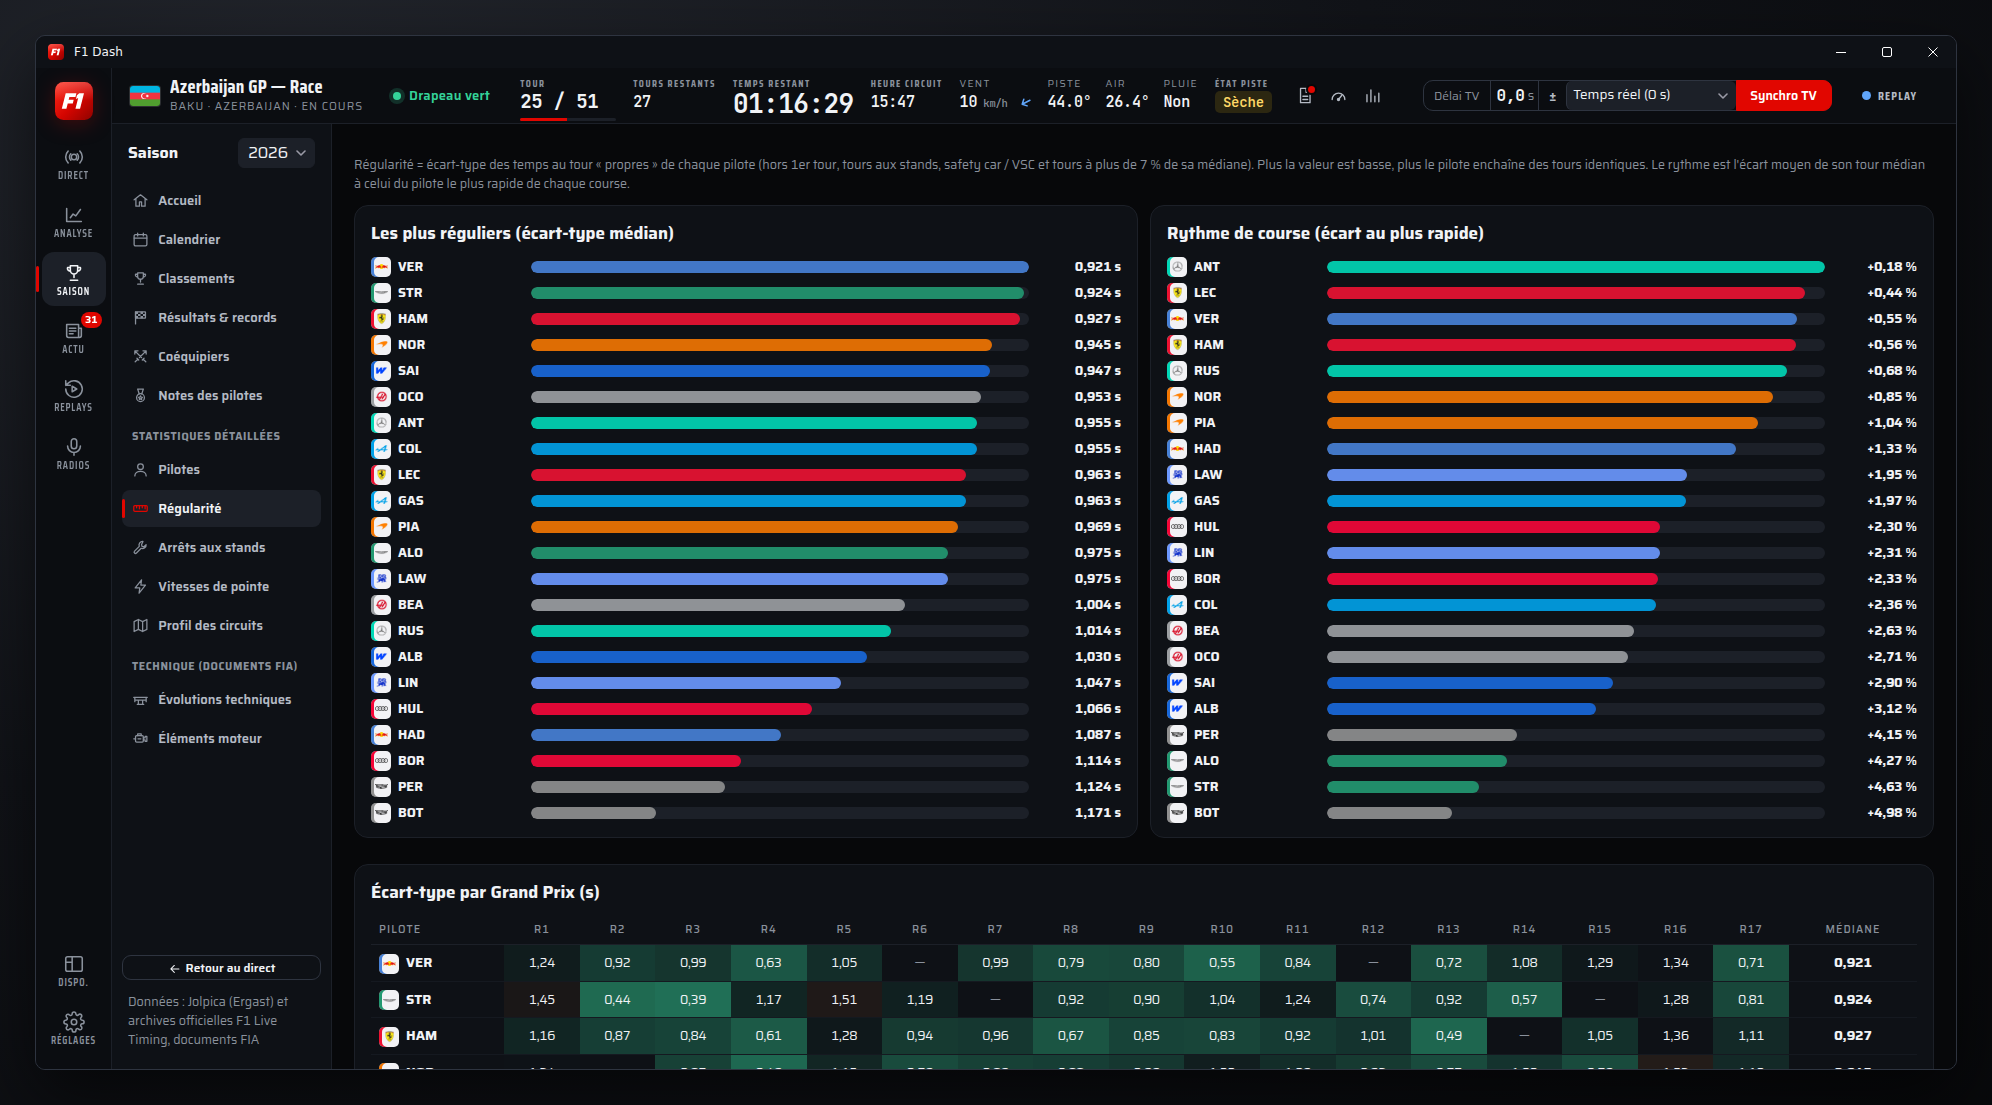
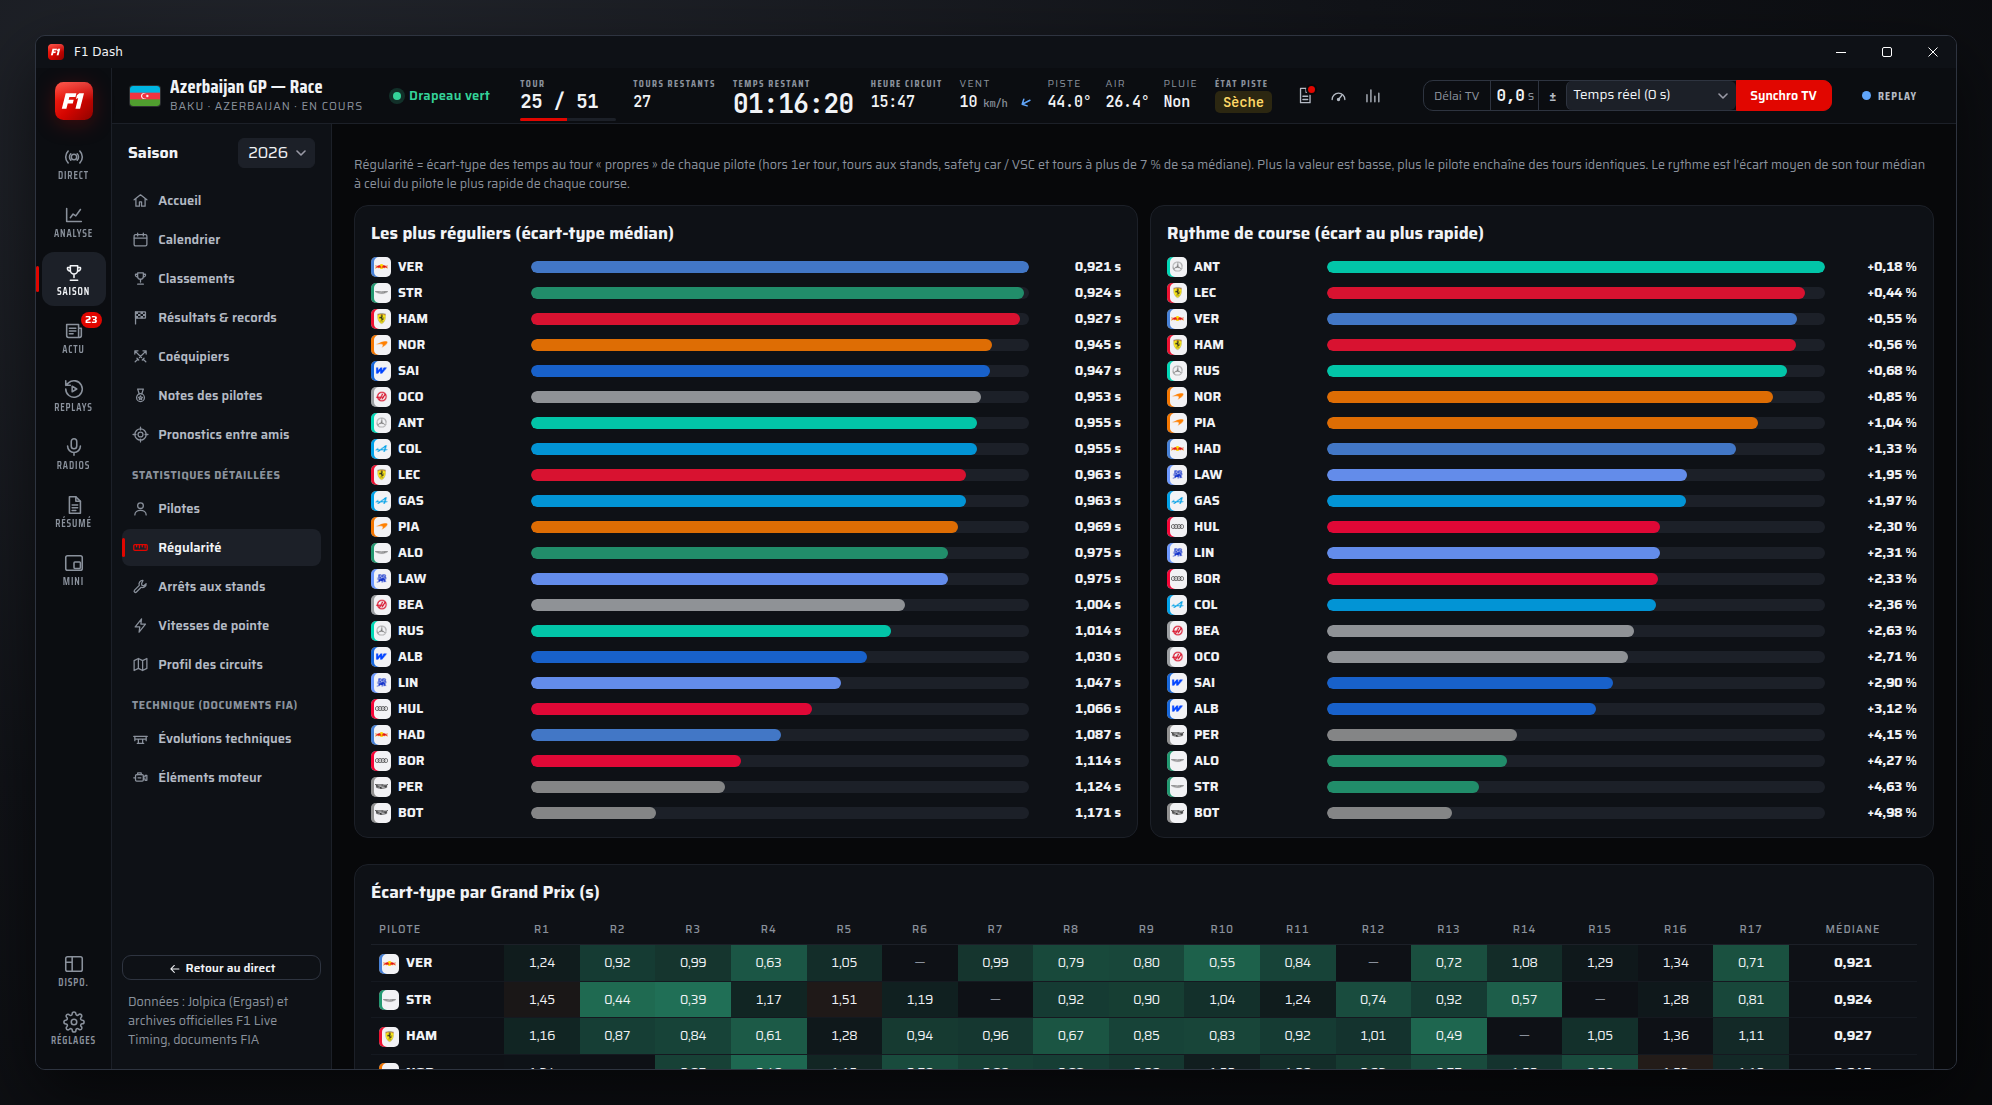
Captures d'écran à jour et publication de la v1.21.0
- Toutes les captures refaites avec la nouvelle barre latérale (Résumé, Mini).
- Nouvelles captures : moments clés du replay, résumé de la séance, radar de la
  pluie, pronostics entre amis et mini-classement flottant (ajoutées au README).
- Journal : v1.21.0 datée du 14 octobre 2026.

Claude-Session: https://claude.ai/code/session_01WgEz3ZSgjwLPy4E2f6uwb7

Changed region(s): [[0.0622, 0.4923, 0.1556, 0.7077], [0.0622, 0.3692, 0.1556, 0.4615], [0.0311, 0.4615, 0.0622, 0.4923]]

diff --git a/README.md b/README.md
@@ -33,6 +33,14 @@ Dashboard **Formule 1 en direct** pour suivre chaque Grand Prix sur votre ordina
 | ![Classement](docs/screenshots/classement.png) | ![Carte](docs/screenshots/carte.png) |
 | ![Analyse : rythme](docs/screenshots/analyse-rythme.png) | ![Saison : accueil](docs/screenshots/saison-accueil.png) |
 | ![Saison : fiche pilote](docs/screenshots/saison-pilote.png) | ![Saison : évolutions techniques](docs/screenshots/saison-evolutions-techniques.png) |
+| ![Replay : moments clés](docs/screenshots/moments.png) | ![Résumé automatique de la séance](docs/screenshots/resume.png) |
+| ![Météo : radar de la pluie autour du circuit](docs/screenshots/radar.png) | ![Saison : pronostics entre amis](docs/screenshots/pronostics.png) |
+
+<img src="docs/screenshots/mini-classement.png" alt="Mini-classement flottant, toujours au premier plan" width="380" align="right">
+
+**Mini-classement** (bouton Mini de la barre latérale) : une petite fenêtre toujours au premier plan, à poser sur la vidéo de la course. Positions, intervalle ou écart au leader, pneus, favoris, au rythme de votre délai TV.
+
+<br clear="right">
 
 ![Espace Actu : l'actualité de la F1 traduite en français](docs/screenshots/actu.png)
 

diff --git a/CHANGELOG.md b/CHANGELOG.md
@@ -4,7 +4,7 @@ Toutes les nouveautés de F1 Dash, version par version. Chaque nouvelle version 
 sa section ici : elle est reprise telle quelle sur la page de la version (GitHub) et dans
 l'application (Réglages → Application → Nouveautés).
 
-## v1.21.0 — à venir
+## v1.21.0 — 2026-10-14
 
 ### Pendant la course
 - **Mini-classement flottant** (bouton Mini de la barre latérale) : petite fenêtre toujours au premier plan, à poser par-dessus la vidéo de la course (F1 TV, Canal+…) : drapeau, tour, classement avec intervalle ou écart au leader, pneus, pilotes suivis et favoris. Même délai TV que la fenêtre principale.
